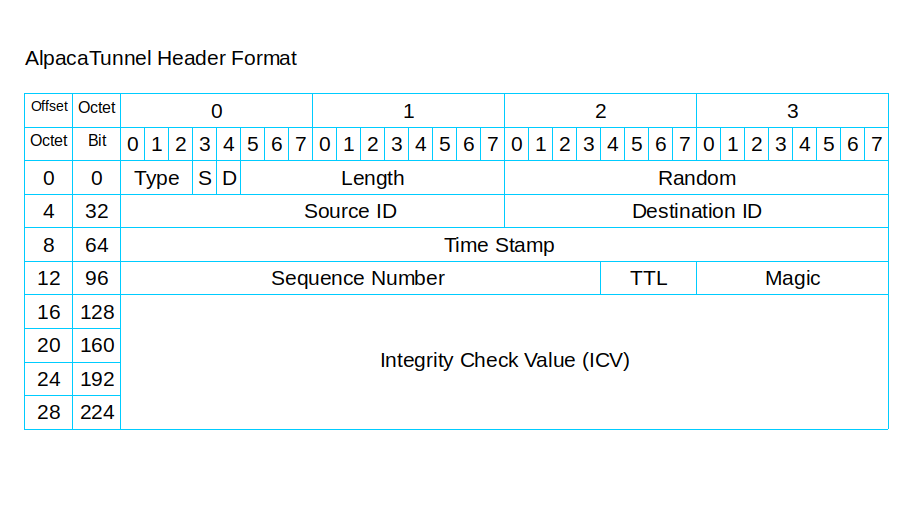
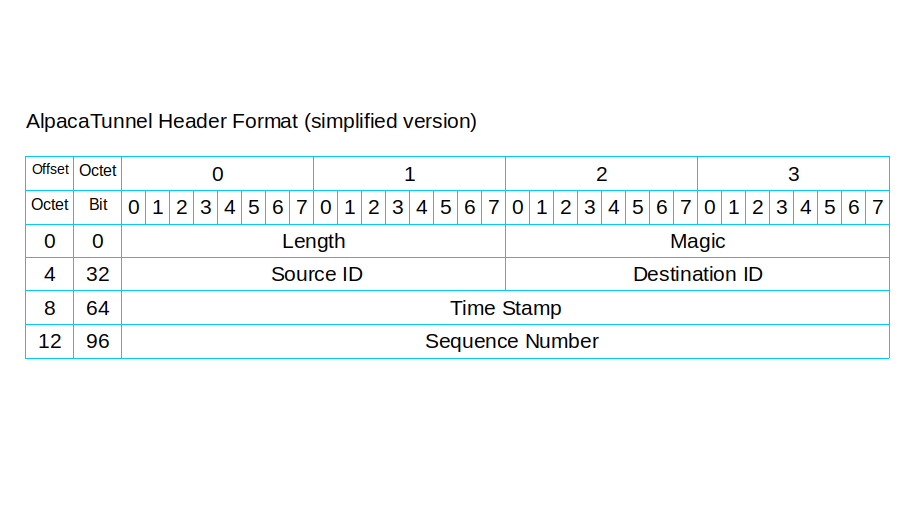
update readme and header.png

diff --git a/README.md b/README.md
@@ -2,6 +2,26 @@
 
 A Python re-implementation of alpaca-tunnel. Last version compatible with alpaca-tunnel is v1.0, header changed after that.
 
+## Branches
+
+Branch full-header: keep src/dst-inside mark, and TTL.
+
 Branch plain-text: remove encryption to improve performance, also removed some items in header.
 
-Branch no-icv: still uses AES encryption, but removed ICV, and uses a simplified header.
+Branch master: still uses AES encryption, but removed ICV, and uses a simplified header.
+
+## Header change
+
+To improve performance, only left the most important items in header.
+
+Removed src/dst-inside mark, so we can not do NAT, and all peers must use the same tunnel network.
+
+Also removed TTL, so there may be infinite loop between forwarders. However, if the looped packet re-enter a peer within 3 seconds, it will be treated as duplicated and droped. So this is not a big problem.
+
+## Security Warnings
+
+This software is not designed by an security expert, and not designed for strong security. It uses static pre-shared-keys, so there is no perfect forward secrecy, and it's vulnerable to replay attack. Don't rely on it.
+
+A peer may forge as any other peer in the same group, and receive all packets sent to this peer. Because there is only encryption without authentication, the server will store any address claimed as some peer.
+
+The AES encryption is not intended to be secure, but simple obfuscation. Even XOR can be used, but XOR is even slower than AES?
